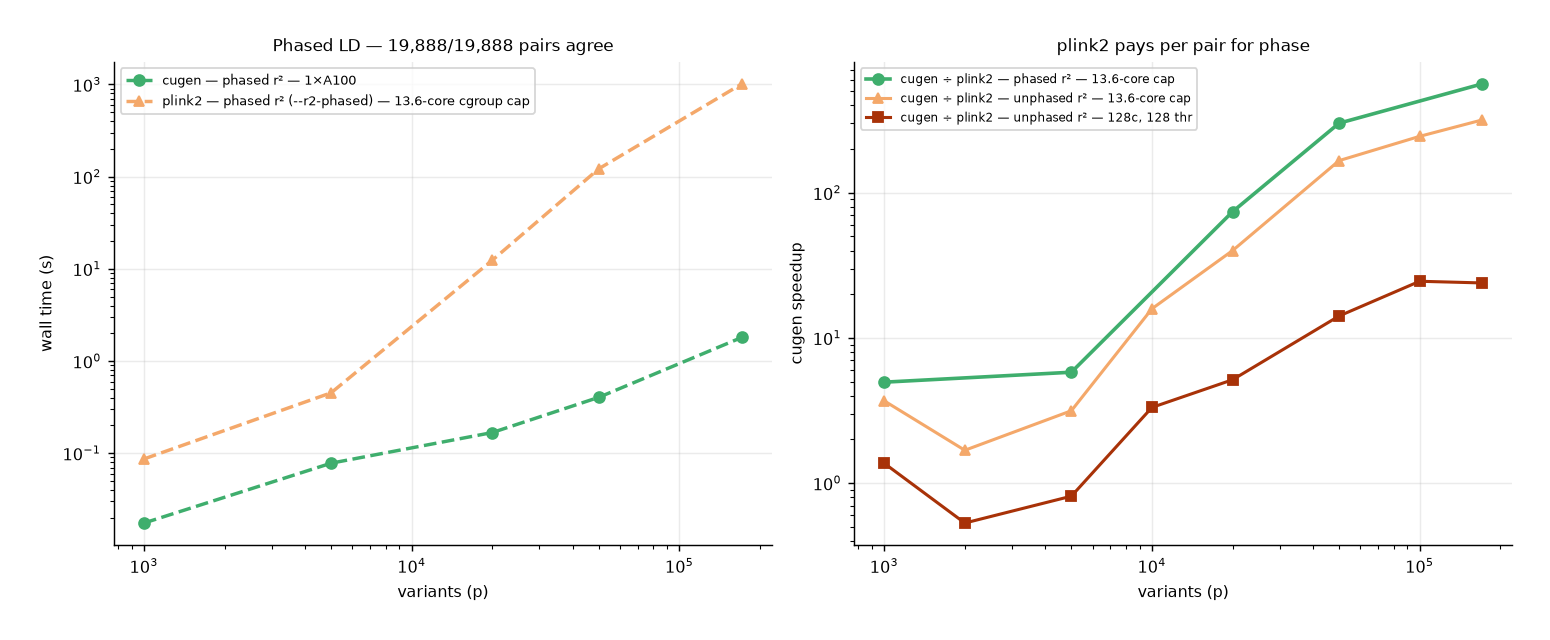
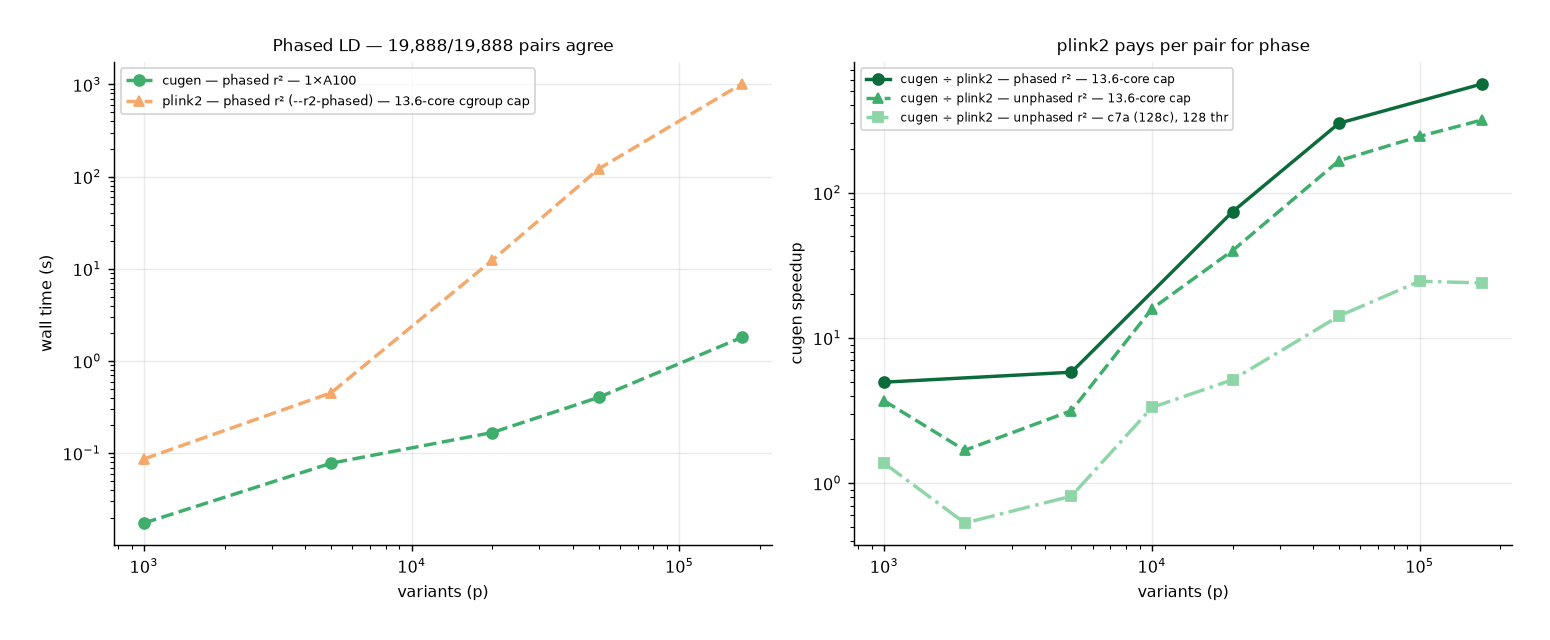
Add the qLD-BLIS variant grid, a speedup panel, and green ratio lines
Three gaps the figures had:

qLD-BLIS held a single point on the variant axis (p=170,949). It now
spans the full grid, measured with -inputList at EVERY p -- even where
one block suffices -- so the series is internally consistent rather than
switching method partway up:

    p=1,000    0.040 s      p=50,000   35.545 s  (3 blocks / 6 tasks)
    p=20,000   8.195 s      p=170,949  86.143 s  (9 blocks / 45 tasks)

The variant axis showed wall time but never the speedup it implies.
fig1 is now two panels, the second plotting cugen's speedup against each
of the three plink2 configurations. It makes the crossover explicit:
cugen is 0.5x at p=2,000 and 0.8x at p=5,000 against plink2 on 128
cores -- it LOSES below about p=10,000, where its ~0.02 s of fixed cost
dominates -- then reaches 23.9x at full chr22.

fig3's right panel drew three cugen-vs-plink2 ratios in green, light
orange and dark orange, implying three different tools. Every ratio
describes cugen, so all are now green shades and the denominator is
carried by marker and linestyle instead of hue.

diff --git a/benchmarks/plot_fourway.py b/benchmarks/plot_fourway.py
@@ -40,6 +40,12 @@ SERIES = {
  "qldgpu":    ("qLD-GPU — phased r² — 1×A100 (OpenCL)",                           "qLD-GPU\n1×A100",     "#5b2d8e", "d-"),
  "qldblis8":  ("qLD-BLIS — phased r² — c7a.32xlarge, 8 thr",                      "qLD-BLIS\n8thr",      "#a07cc9", "v-"),
  "qldblis128":("qLD-BLIS — phased r² — c7a.32xlarge, 128 thr",                    "qLD-BLIS\n128thr",    "#a07cc9", "v--"),
+ # Ratio series describe CUGEN's advantage, so they are green like every other
+ # cugen series; the denominator is carried by marker and linestyle, not hue.
+ "r_ph13":    ("cugen ÷ plink2 — phased r² — 13.6-core cap",                      "",                    "#0b6b3a", "o-"),
+ "r_un13":    ("cugen ÷ plink2 — unphased r² — 13.6-core cap",                    "",                    "#3fae6d", "^--"),
+ "r_un128":   ("cugen ÷ plink2 — unphased r² — c7a (128c), 128 thr",              "",                    "#8ed6a8", "s-."),
+ "r_un32":    ("cugen ÷ plink2 — unphased r² — c7a (128c), 32 thr",               "",                    "#5fbf85", "D:"),
 }
 lab  = lambda k: SERIES[k][0]
 tick = lambda k: SERIES[k][1]
@@ -66,21 +72,36 @@ D_pl32t  = [0.023, 0.036, 0.107, 0.342, 1.260, 10.355, 31.177, 75.825]
 D_pl13   = [0.070, 0.111, 0.318, 1.048, 5.951, 59.095, 230.022, 550.081]
 D_qldgpu = [0.416, 0.471, 0.945, 2.329, 9.849, 34.995, 27.895, 73.644]
 
-fig, ax = plt.subplots(figsize=(8.8, 5.4))
+D_qblis = [0.040, 0.109, 0.493, 1.934, 8.195, 35.545, 72.575, 86.143]
+
+fig, (ax, ax2) = plt.subplots(1, 2, figsize=(13.2, 5.4))
 for k, d in (("cugen", D_cugen), ("pl128", D_pl128), ("pl32t", D_pl32t),
-             ("pl13", D_pl13), ("qldgpu", D_qldgpu)):
+             ("pl13", D_pl13), ("qldgpu", D_qldgpu), ("qldblis8", D_qblis)):
     draw(ax, k, P, d)
 draw(ax, "pl32box", [170949], [89.41], ms=8)
-draw(ax, "qldblis8", [170949], [85.77], ms=8)
 ax.set(xscale="log", yscale="log", xlabel="variants (p), all-pairs",
        ylabel="wall time (s)",
        title="Variant axis — 1000G chr22 MAF≥0.01, n=2,504, r²≥0.2")
-box(ax, "full chr22 = 1.46e10 pairs\n"
-        "cugen 1.734 s  vs  plink2 128c 41.47 s  = 23.9×\n"
-        "all three emit 10,517,635 rows\n"
-        "(plink2 128c measured twice: 41.47 / 42.21 s)")
-ax.legend(fontsize=7.2, loc="upper center", bbox_to_anchor=(0.5, -0.13),
-          ncol=2, frameon=False)
+ax.annotate("full chr22 = 1.46e10 pairs\n"
+            "cugen 1.734 s  vs  plink2 128c 41.47 s  = 23.9×\n"
+            "both emit 10,517,635 rows",
+            xy=(0.98, 0.03), xycoords="axes fraction", va="bottom", ha="right",
+            fontsize=7.6, bbox=dict(boxstyle="round,pad=0.4", fc="white",
+                                    ec="0.75", alpha=0.95))
+ax.legend(fontsize=6.8, loc="upper left")
+
+# speedup panel -- the thing the wall-time panel does not show directly
+for k, d in (("r_un128", D_pl128), ("r_un32", D_pl32t), ("r_un13", D_pl13)):
+    draw(ax2, k, P, [a / b for a, b in zip(d, D_cugen)], ms=5)
+ax2.axhline(1, color="0.6", ls=":", lw=1)
+ax2.text(1050, 1.12, "parity", fontsize=7, color="0.45")
+for x, y in zip(P, [a / b for a, b in zip(D_pl128, D_cugen)]):
+    ax2.annotate(f"{y:.1f}×", (x, y), textcoords="offset points", xytext=(0, 7),
+                 ha="center", fontsize=7)
+ax2.set(xscale="log", yscale="log", xlabel="variants (p), all-pairs",
+        ylabel="cugen speedup  (plink2 ÷ cugen)",
+        title="cugen speedup vs each plink2 configuration")
+ax2.legend(fontsize=6.8, loc="upper left")
 fig.tight_layout(); fig.savefig(f"{OUT}/fig1_variant_axis.png",
                                 bbox_inches="tight", pad_inches=0.3); plt.close(fig)
 
@@ -128,12 +149,9 @@ draw(b1, "pl13_ph", PP, P_ph, ms=6)
 b1.set(xscale="log", yscale="log", xlabel="variants (p)", ylabel="wall time (s)",
        title="Phased LD — 19,888/19,888 pairs agree")
 b1.legend(fontsize=7.2, loc="upper left")
-b2.plot(PP, [p / c for p, c in zip(P_ph, C_ph)], "o-", color=col("cugen_ph"),
-        lw=2, ms=6, label="cugen ÷ plink2 — phased r² — 13.6-core cap")
-b2.plot(P, [p / c for p, c in zip(D_pl13, D_cugen)], "^-", color=col("pl13"),
-        lw=1.7, ms=5, label="cugen ÷ plink2 — unphased r² — 13.6-core cap")
-b2.plot(P, [p / c for p, c in zip(D_pl128, D_cugen)], "s-", color=col("pl128"),
-        lw=1.7, ms=5, label="cugen ÷ plink2 — unphased r² — 128c, 128 thr")
+draw(b2, "r_ph13",  PP, [p / c for p, c in zip(P_ph, C_ph)], ms=6)
+draw(b2, "r_un13",  P,  [p / c for p, c in zip(D_pl13, D_cugen)], ms=5)
+draw(b2, "r_un128", P,  [p / c for p, c in zip(D_pl128, D_cugen)], ms=5)
 b2.set(xscale="log", yscale="log", xlabel="variants (p)", ylabel="cugen speedup",
        title="plink2 pays per pair for phase")
 b2.legend(fontsize=6.9, loc="upper left")
